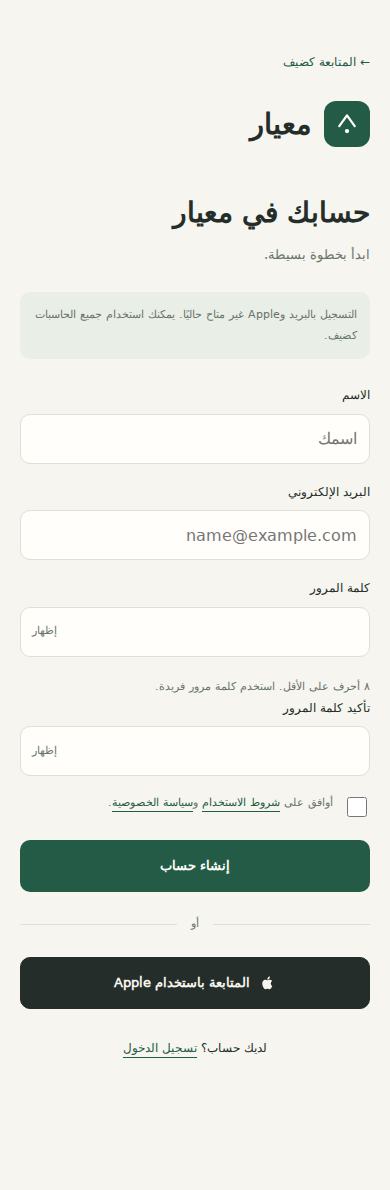
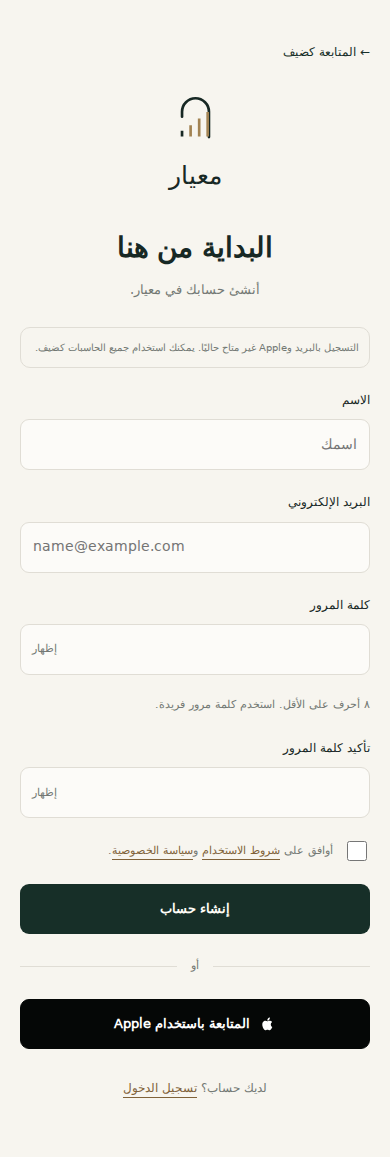
Apply approved premium ivory ink bronze design with persistent dark mode

diff --git a/style.css b/style.css
@@ -10,3 +10,9 @@
 body{font-size:15px;-webkit-text-size-adjust:100%}.shell{max-width:820px;padding-top:max(12px,env(safe-area-inset-top));padding-bottom:calc(108px + env(safe-area-inset-bottom))}h1,h2,h3{letter-spacing:0}h1{font-size:30px;font-weight:600}.topbar{padding:14px 0 18px}.brand{font-size:24px;gap:9px}.brand img{width:36px;height:36px;border-radius:9px}.brand small{font-size:10px}.pill{font-size:10px;border:0;background:var(--soft);padding:6px 10px}.home-heading{padding:28px 0 20px}.home-heading h1{font-size:27px;margin:8px 0}.home-heading p{margin:5px 0;font-size:13px}.eyebrow{letter-spacing:0;font-size:11px}.quick-calc{display:flex;align-items:center;gap:14px;padding:22px 18px;background:var(--accent);color:var(--on-accent);border-radius:16px}.quick-calc .eyebrow,.quick-calc p{color:inherit;opacity:.8}.quick-calc h2{font-size:21px;margin:5px 0}.quick-calc p{font-size:11px;margin:0}.quick-icon{font-size:32px}.arrow{margin-inline-start:auto;font-size:24px}.section-title{margin:25px 0 12px}.section-title h2{font-size:17px;margin:0}.calculator-grid{grid-template-columns:repeat(2,minmax(0,1fr));gap:0;background:var(--panel);border:1px solid var(--line);border-radius:16px;overflow:hidden}.tile,.tile:first-child{min-height:130px;border:0;border-radius:0;border-bottom:1px solid var(--line);background:transparent;padding:17px;transform:none}.tile:nth-child(odd){border-inline-end:1px solid var(--line)}.tile:last-child{border-bottom:0}.tile:hover{background:var(--soft);transform:none}.tile-icon{width:30px;height:30px;border-radius:0;background:transparent;font-size:24px}.tile h3{font-size:14px;margin:8px 0 4px}.tile p{font-size:10px;line-height:1.7}.bottom-nav{background:var(--panel);backdrop-filter:none;gap:0;justify-content:space-around;padding-top:10px}.bottom-nav a{font-size:10px;gap:5px;flex:1;min-width:0}.bottom-nav a[aria-current]{font-weight:700}.bottom-nav a[aria-current]>span{background:var(--soft);border-radius:8px}.bottom-nav a>span{padding:3px 17px}.icon{width:22px;height:22px;display:block;fill:none;stroke:currentColor;stroke-width:1.6;stroke-linecap:round;stroke-linejoin:round}.panel{border-radius:15px;background:var(--panel);padding:20px}.calc-heading{margin:25px 0 22px}.calc-heading h1{font-size:28px;margin:7px 0}.calc-heading p{font-size:12px;margin:0}.back{padding-top:20px;font-size:12px}.field>span{color:var(--text);font-size:12px}.field{margin-bottom:12px}input,select{background:var(--field);border-color:var(--line);color:var(--text);border-radius:10px;min-height:50px}input:focus,select:focus{border-color:var(--accent)}.button{border-radius:10px;font-size:13px;display:inline-flex;align-items:center;justify-content:center;gap:8px;text-align:center}.primary{background:var(--accent);color:var(--on-accent)}.secondary,.keypad button{background:var(--soft);color:var(--text);border-color:var(--line)}.result{background:var(--soft);border-color:var(--line)}.result h2,.history-item strong,.prose a,.grade-map summary{color:var(--accent)}.keypad{gap:9px}.keypad button{font-family:inherit;background:var(--field);font-size:24px;border:1px solid var(--line);border-radius:13px;min-height:60px}.keypad button.operator{background:var(--soft);color:var(--accent)}.expression{font-family:inherit;background:transparent;border:0;border-bottom:1px solid var(--line);border-radius:0;font-size:30px;min-height:85px}.note{font-size:11px;color:var(--muted)}.course button{background:var(--soft);color:var(--text)}.error{background:#f7e9e6;color:#8c3327}.toast{background:var(--text);color:var(--bg)}dialog{background:var(--panel);color:var(--text)}.avatar{width:46px;height:46px;background:var(--soft);color:var(--accent);display:grid;place-items:center;border-radius:50%;font-size:22px;flex-shrink:0}.account-card{display:flex;align-items:center;gap:14px;margin-bottom:18px}.account-card h2{font-size:15px;margin:0}.account-card p{font-size:11px;margin:6px 0}.settings-list>a{display:flex;justify-content:space-between;padding:18px 0;border-top:1px solid var(--line);font-size:13px}.settings-list>a:last-child{padding-bottom:0}.auth-page .topbar,.auth-page .bottom-nav{display:none}.auth-wrap{max-width:420px;margin:auto;padding-top:20px}.auth-brand{font-size:29px;font-weight:700;display:flex;align-items:center;gap:12px;margin:25px 0 45px}.auth-brand img{width:46px}.auth-wrap h1{font-size:28px;margin:12px 0}.auth-wrap>p{font-size:13px;margin:0 0 26px}.auth-wrap .button{width:100%;margin:5px 0;min-height:52px}.auth-wrap .field{margin-bottom:18px}.auth-footer{text-align:center;font-size:12px;margin:24px 0}.text-link{color:var(--accent);text-decoration:underline;text-underline-offset:5px}.auth-notice{font-size:11px!important;background:var(--soft);padding:13px;border-radius:10px;line-height:1.9}.password-wrap{position:relative}.password-wrap input{padding-inline-end:68px;direction:ltr;text-align:left}.password-toggle{position:absolute;inset-inline-end:6px;top:6px;min-height:38px;background:transparent;color:var(--muted);border:0;font:inherit;font-size:11px}.check{display:flex;gap:10px;align-items:flex-start;font-size:11px;color:var(--muted);margin:15px 0}.check input{width:20px;min-height:20px;flex-shrink:0;accent-color:var(--accent)}.divider{display:flex;align-items:center;gap:14px;font-size:11px;color:var(--muted);margin:18px 0}.divider:before,.divider:after{content:'';height:1px;background:var(--line);flex:1}.apple-button{background:var(--text);color:var(--bg);border-color:var(--text)}.apple-button svg{width:18px;height:22px;fill:currentColor}.report-row{display:flex;align-items:center;gap:12px;padding:17px 0;border-bottom:1px solid var(--line);font-size:13px}.report-row input{width:20px;min-height:20px;accent-color:var(--accent)}.report-row small{display:block;color:var(--muted);font-size:10px}.report-row strong{margin-inline-start:auto;font-size:14px;max-width:40%;overflow-wrap:anywhere}#report-records{margin:20px 0}.report-paper{margin:20px 0;padding-bottom:15px;border-bottom:1px solid var(--line)}.report-paper h3{font-size:15px}.report-paper p{font-size:12px;white-space:pre-line}.history-tools{display:grid;grid-template-columns:1fr 1fr;gap:10px;margin-bottom:18px}.history-item{box-shadow:none}.recent-row{display:flex;justify-content:space-between;padding:15px 0;border-bottom:1px solid var(--line);font-size:12px;gap:14px}.recent-row strong{color:var(--accent)}.footnote{line-height:1.9}.brand span{white-space:nowrap}@media(min-width:651px){.calculator-grid{grid-template-columns:repeat(3,minmax(0,1fr))}.tile{border-inline-end:1px solid var(--line)}.shell{padding-inline:32px}.bottom-nav{max-width:820px;margin:auto}}@media(max-width:370px){.shell{padding-inline:16px}.pill{font-size:9px}.quick-calc{gap:10px;padding:18px 14px}.quick-calc h2{font-size:18px}.quick-calc p{font-size:10px}.keypad button{min-height:54px}.auth-wrap h1{font-size:25px}} 
 
 .keypad button{display:grid;place-items:center}.general-page .calc-heading{margin:13px 0}.general-page .calc-heading h1{font-size:23px}.general-page .calc-heading .eyebrow{display:none}.general-page .keypad button{min-height:49px}.general-page .expression{min-height:66px}.general-page .back{padding-top:12px}.general-page .form-actions{margin-top:12px}.general-page .grade-map{margin-top:8px}.general-page #fields{padding:16px}.auth-brand img{border-radius:12px}
+
+/* Approved premium direction — porcelain, ink, bronze. */
+:root{--bg:#f7f5ef;--panel:#fcfbf8;--line:#e0ddd5;--text:#172824;--muted:#737974;--accent:#172f28;--soft:#efede6;--field:#fcfbf8;--on-accent:#fffdf7;--bronze:#806239;--bronze-fill:#a28353;--feature:#172f28;--feature-text:#fffdf7;--logo-bg:#f7f5ef;--danger-bg:#f8e9e4;--danger-text:#8b3426}
+:root[data-theme=dark]{--bg:#111916;--panel:#19231f;--line:#354039;--text:#efeee6;--muted:#b0b9b0;--accent:#c6d8cb;--soft:#25312b;--field:#19231f;--on-accent:#14251c;--bronze:#d2b27e;--bronze-fill:#bea16f;--feature:#24372d;--feature-text:#f5f2e9;--danger-bg:#412a24;--danger-text:#f6c4b6}
+@media(prefers-color-scheme:dark){:root:not([data-theme=light]){--bg:#111916;--panel:#19231f;--line:#354039;--text:#efeee6;--muted:#b0b9b0;--accent:#c6d8cb;--soft:#25312b;--field:#19231f;--on-accent:#14251c;--bronze:#d2b27e;--bronze-fill:#bea16f;--feature:#24372d;--feature-text:#f5f2e9;--danger-bg:#412a24;--danger-text:#f6c4b6}}
+.topbar{border-bottom:0;padding:12px 0;min-height:60px}.brand{gap:5px;font-weight:500;font-size:25px}.brand img{width:43px;height:43px;border-radius:9px}.brand small{display:none}.profile-link{width:37px;height:37px;display:grid;place-items:center;border:1px solid var(--line);border-radius:50%;color:var(--accent);background:var(--panel)}.home-heading{padding:18px 0 23px}.home-heading h1{font-size:25px;letter-spacing:-.6px}.home-heading p{font-size:12px;margin-top:5px}.quick-calc{display:block;padding:20px 20px 14px;background:var(--feature);color:var(--feature-text);border-radius:14px;box-shadow:0 7px 15px #15271c0d}.quick-top{display:flex;align-items:center;justify-content:space-between;font-size:14px}.quick-top>span:first-child{display:flex;align-items:center;gap:9px}.quick-top .icon{color:#c2a574;width:20px;height:20px}.round-arrow{display:grid;place-items:center;width:30px;height:30px;border-radius:50%;background:#a28353;color:#fff;font-size:22px}.quick-expression{margin-top:15px;text-align:right;font-size:21px;letter-spacing:1px}.quick-answer{border-top:1px solid #a2835370;margin-top:9px;padding-top:4px;font-family:Georgia,serif;font-size:53px;line-height:1.2;color:#d0b07a;text-align:right}.quick-calc small{font-size:9px;color:#e3e7df;opacity:.8}.calculator-grid{gap:10px;background:transparent;border:0;overflow:visible}.tile,.tile:first-child,.tile:nth-child(odd),.tile:last-child{border:1px solid var(--line);border-radius:12px;padding:17px 8px 13px;min-height:107px;display:flex;flex-direction:column;align-items:center;justify-content:center;background:var(--panel);text-align:center}.tile-icon{width:30px;height:30px;display:grid;place-items:center;color:var(--text)}.tile-icon .icon{width:28px;height:28px;stroke-width:1.5}.tile:nth-child(even) .tile-icon{color:var(--bronze)}.tile h3{font-weight:500;font-size:12px;margin:10px 0 0}.tile p{display:none}.section-title{margin:23px 0 13px}.section-title h2{font-weight:500;font-size:16px}.section-title>span{display:none}.bottom-nav{border-top:1px solid var(--line);background:var(--bg)}.bottom-nav a{position:relative;font-size:9px;gap:4px}.bottom-nav a>span{padding:3px 12px}.bottom-nav a[aria-current]{color:var(--bronze)}.bottom-nav a[aria-current]>span{background:none}.bottom-nav a[aria-current]:before{content:'';position:absolute;top:-10px;left:calc(50% - 12px);width:24px;height:3px;border-radius:2px;background:var(--bronze-fill)}.bottom-nav .icon{width:23px;height:23px}.auth-wrap{padding-top:10px}.auth-brand{flex-direction:column;gap:0;justify-content:center;margin:25px 0 32px;font-size:25px;font-weight:500}.auth-brand img{width:65px;height:65px;border-radius:13px}.auth-wrap h1{text-align:center;font-size:28px;letter-spacing:-.6px}.auth-wrap>p:not(.auth-notice):not(.error){text-align:center}.auth-wrap .auth-notice{margin:22px 0;font-size:10px!important;border:1px solid var(--line);background:transparent;color:var(--muted);padding:10px}.auth-wrap .field{margin:22px 0 0}.auth-wrap input{min-height:51px;font-size:14px;border-radius:9px}.auth-wrap .field>span{font-size:12px;font-weight:400;margin-bottom:9px}.auth-wrap input[type=email]{text-align:left}.auth-wrap .primary{background:var(--feature);color:var(--feature-text)}.auth-wrap form>.text-link{display:block;text-align:left;margin:16px 0;font-size:11px;color:var(--bronze)}.auth-wrap .button{min-height:50px;border-radius:9px}.auth-wrap .apple-button{background:#050706;color:#fff;border-color:#050706}.auth-wrap .text-link{color:var(--bronze)}.auth-wrap .check input{min-height:20px;accent-color:var(--bronze-fill)}.auth-wrap .check{margin:20px 0 15px;align-items:center}.auth-wrap .auth-footer{color:var(--muted)}.auth-page .shell{padding-bottom:max(35px,env(safe-area-inset-bottom))}.auth-wrap .password-toggle{top:7px;min-height:37px}.error{background:var(--danger-bg);color:var(--danger-text)}.general-page .topbar{display:none}.general-page .back{display:block;text-align:right;padding:6px 0;font-size:11px}.general-page .calc-heading{margin:10px 0 14px}.general-page .calc-heading h1{font-size:20px;font-weight:500}.general-page .calc-heading p{font-size:10px}.general-page #fields{padding:0;background:transparent;border:0}.general-page .expression{min-height:60px;font-size:26px;padding:12px 15px;text-align:right;background:var(--panel);border:1px solid var(--line);border-bottom:0;border-radius:13px 13px 0 0}.general-page #fields>.field{margin:0}.general-page #fields>.field>span{display:none}.live-display{padding:3px 16px 14px;background:var(--panel);border:1px solid var(--line);border-top:0;border-radius:0 0 13px 13px}.live-display>span{font-size:11px;color:var(--muted);display:block}.live-display output{display:block;text-align:right;font:64px/1.15 Georgia,serif;min-height:74px;overflow-wrap:anywhere;color:var(--text)}.general-page .keypad{gap:8px;margin-top:15px}.general-page .keypad button{min-height:55px;border-radius:11px;background:var(--panel);font-size:23px;font-family:system-ui,sans-serif;border:1px solid var(--line);font-weight:400}.general-page .keypad button.operator{background:var(--feature);color:var(--feature-text);border-color:var(--feature)}.general-page .keypad button.equals{background:var(--bronze-fill);color:#111b17;border-color:var(--bronze-fill);font-size:28px}.general-page .form-actions{margin:10px 0}.general-page .form-actions .primary{display:none}.general-page .form-actions .secondary{background:transparent;color:var(--muted);border:0;padding:5px;font-size:11px;min-height:32px}.general-page .grade-map{margin-top:7px}.general-page .grade-map summary{font-size:12px;color:var(--bronze)}.general-page .result{margin-top:8px}.general-page .result h2{font-family:Georgia,serif}.science .button{font-family:system-ui,sans-serif}.profile-link:focus-visible{outline:2px solid var(--bronze)}.field input:focus,.field select:focus{border-color:var(--bronze)}@media(min-width:651px){.calculator-grid{grid-template-columns:repeat(3,minmax(0,1fr))}.general-page{max-width:540px;margin:auto}.general-page .bottom-nav{max-width:540px}.home-heading h1{font-size:30px}}@media(max-height:750px){.general-page .keypad button{min-height:47px}.general-page .live-display output{font-size:54px;min-height:62px}.general-page .calc-heading{margin:7px 0}.general-page .calc-heading p{display:none}}

diff --git a/index.html b/index.html
@@ -1,9 +1,9 @@
-<!doctype html><html lang="ar" dir="rtl"><head><meta charset="utf-8"><meta name="viewport" content="width=device-width,initial-scale=1,viewport-fit=cover"><meta name="theme-color" content="#f6f5ef"><meta name="description" content="معيار: حاسبات عربية وتقارير PDF وسجل محلي."><meta name="apple-mobile-web-app-capable" content="yes"><title>معيار — حساباتك بوضوح</title><link rel="manifest" href="manifest.webmanifest"><link rel="icon" href="assets/icon.svg"><link rel="apple-touch-icon" href="assets/icon-192.png"><link rel="stylesheet" href="style.css"><script type="module" src="app.js"></script></head>
-<body><div class="shell"><header class="topbar"><a class="brand" href="#home" aria-label="معيار، الرئيسية"><img src="assets/icon.svg" width="46" height="46" alt=""><span>معيار<small>حساباتك بوضوح</small></span></a><span class="pill">محفوظ على جهازك</span></header><main>
-<section id="home"><div class="home-heading"><span class="eyebrow">حساباتك اليومية</span><h1>كل حساب، في مكانه.</h1><p>اختر أداتك وابدأ مباشرة.</p></div><a class="quick-calc" href="#general"><span class="quick-icon" aria-hidden="true"><svg class="icon" viewBox="0 0 24 24"><path d="M12 4v16M4 12h16"/></svg></span><div><span class="eyebrow">جاهزة لحسابك القادم</span><h2>الحاسبة العامة</h2><p>من العمليات البسيطة إلى الدوال العلمية</p></div><span class="arrow">←</span></a><div class="section-title"><h2>الأدوات</h2><span>حسابات متخصصة</span></div><div id="calculator-grid" class="calculator-grid"></div><div id="recent-home"></div><p class="footnote">حساباتك محفوظة على جهازك. تعمل الأدوات دون اتصال داخل تطبيق iOS.</p></section>
+<!doctype html><html lang="ar" dir="rtl"><head><meta charset="utf-8"><meta name="viewport" content="width=device-width,initial-scale=1,viewport-fit=cover"><meta name="theme-color" content="#f7f5ef"><meta name="description" content="معيار: حاسبات عربية وتقارير PDF وسجل محلي."><meta name="apple-mobile-web-app-capable" content="yes"><title>معيار — حساباتك بوضوح</title><link rel="manifest" href="manifest.webmanifest"><link rel="icon" href="assets/icon.svg"><link rel="apple-touch-icon" href="assets/icon-192.png"><link rel="stylesheet" href="style.css"><script type="module" src="app.js"></script></head>
+<body><div class="shell"><header class="topbar"><a class="brand" href="#home" aria-label="معيار، الرئيسية"><img src="assets/icon.svg" width="46" height="46" alt=""><span>معيار<small>حساباتك بوضوح</small></span></a><a class="profile-link" href="#settings" aria-label="حسابي"><span data-icon="user"></span></a></header><main>
+<section id="home"><div class="home-heading"><h1>مساحة لحساباتك</h1><p>ببساطة، وبدقة.</p></div><a class="quick-calc" href="#general"><div class="quick-top"><span><svg class="icon" viewBox="0 0 24 24"><rect x="5" y="2" width="14" height="20" rx="2"/><path d="M8 6h8M8 11h1m3 0h1m3 0h0M8 15h1m3 0h1m3 0h0M8 19h1m3 0h1m3 0h0"/></svg>الحاسبة العامة</span><span class="round-arrow">←</span></div><div class="quick-expression" dir="ltr">128 × 4</div><div class="quick-answer" dir="ltr">512</div><small>مثال توضيحي</small></a><div class="section-title"><h2>أدواتك</h2><span>حسابات متخصصة</span></div><div id="calculator-grid" class="calculator-grid"></div><div id="recent-home"></div><p class="footnote">حساباتك محفوظة على جهازك. تعمل الأدوات دون اتصال داخل تطبيق iOS.</p></section>
 <section id="calculator" hidden><a class="back" href="#home">← كل الحاسبات</a><div class="calc-heading"><span class="eyebrow" id="calc-kicker"></span><h1 id="calc-title" tabindex="-1"></h1><p id="calc-description"></p></div><form id="calc-form" novalidate><div id="fields" class="panel"></div><p id="error" class="error" role="alert" hidden></p><div class="form-actions"><button class="button primary" type="submit">احسب النتيجة <span>↗</span></button><button id="reset" class="button secondary" type="button">إعادة تعيين</button></div></form><section id="result" class="result panel" hidden aria-live="polite"><span class="eyebrow">نتيجتك</span><h2 id="result-value"></h2><p id="result-detail"></p><div class="result-actions"><button id="save" class="button secondary" type="button">حفظ</button><button id="share" class="button secondary" type="button">مشاركة</button><button id="pdf" class="button secondary" type="button">تقرير PDF</button></div></section></section>
 <section id="history" hidden><div class="calc-heading"><span class="eyebrow">للرجوع إليها في أي وقت</span><h1>سجل حساباتك</h1><p>حتى ١٠٠ نتيجة محفوظة على هذا الجهاز.</p></div><div class="result-actions"><button id="export-history" class="button secondary" hidden>تقرير السجل PDF</button><button id="export-csv" class="button secondary" hidden>تصدير CSV</button></div><div id="history-list"></div><button id="clear-history" class="button secondary" hidden>مسح السجل بالكامل</button></section>
-<section id="settings" hidden><div class="calc-heading"><span class="eyebrow">مساحتك الشخصية</span><h1>حسابي</h1></div><div class="account-card panel"><span class="avatar">م</span><div><h2>تستخدم معيار كضيف</h2><p>جميع حاسباتك وسجلك متاحة على هذا الجهاز.</p></div></div><div class="result-actions"><a href="#login" class="button primary">تسجيل الدخول</a><a href="#signup" class="button secondary">إنشاء حساب</a></div><div class="panel settings-list"><label class="field"><span>المظهر</span><select id="theme"><option value="system">حسب الجهاز</option><option value="light">فاتح</option><option value="dark">داكن</option></select></label><a href="#history">إدارة سجل الحسابات <span>←</span></a><a href="privacy.html">سياسة الخصوصية <span>←</span></a><a href="terms.html">شروط الاستخدام <span>←</span></a><a href="mailto:abdalulazizaali@gmail.com">تواصل معنا <span>←</span></a></div><p class="footnote">معيار · 0.3 — تطوير عبدالعزيز العنزي</p></section>
+<section id="settings" hidden><div class="calc-heading"><span class="eyebrow">مساحتك الشخصية</span><h1>حسابي</h1></div><div class="account-card panel"><span class="avatar">م</span><div><h2>تستخدم معيار كضيف</h2><p>جميع حاسباتك وسجلك متاحة على هذا الجهاز.</p></div></div><div class="result-actions"><a href="#login" class="button primary">تسجيل الدخول</a><a href="#signup" class="button secondary">إنشاء حساب</a></div><div class="panel settings-list"><label class="field"><span>المظهر</span><select id="theme"><option value="system">حسب الجهاز</option><option value="light">فاتح</option><option value="dark">داكن</option></select></label><a href="#history">إدارة سجل الحسابات <span>←</span></a><a href="privacy.html">سياسة الخصوصية <span>←</span></a><a href="terms.html">شروط الاستخدام <span>←</span></a><a href="mailto:abdalulazizaali@gmail.com">تواصل معنا <span>←</span></a></div><p class="footnote">معيار · 0.3.1 — تطوير عبدالعزيز العنزي</p></section>
 <section id="reports" hidden><div class="calc-heading"><span class="eyebrow">من الأرقام إلى مستند واضح</span><h1>التقارير</h1><p>اختر حسابات محفوظة لإنشاء تقريرك.</p></div><label class="field"><span>عنوان التقرير (اختياري)</span><input id="report-title" maxlength="70" placeholder="تقرير حساباتي"></label><div id="report-records"></div><div class="result-actions"><button id="preview-report" class="button primary">معاينة التقرير</button><button id="download-report" class="button secondary">حفظ / مشاركة PDF</button></div><div id="report-preview" class="panel" hidden></div><p class="footnote">التقارير للاستخدام الشخصي وليست مستندات معتمدة.</p></section>
 <section id="auth" hidden></section>
 </main><nav class="bottom-nav" aria-label="التنقل الرئيسي"><a href="#home" data-tab="home"><span data-icon="grid"></span>الحاسبات</a><a href="#history" data-tab="history"><span data-icon="clock"></span>السجل</a><a href="#reports" data-tab="reports"><span data-icon="file"></span>التقارير</a><a href="#settings" data-tab="settings"><span data-icon="user"></span>حسابي</a></nav></div><div id="toast" class="toast" role="status" hidden></div><dialog id="confirm"><h2>مسح السجل؟</h2><p>سيُحذف السجل من هذا الجهاز ولا يمكن التراجع.</p><form method="dialog"><button class="button secondary" value="cancel">إلغاء</button><button class="button primary" value="delete">مسح</button></form></dialog></body></html>

diff --git a/sw.js b/sw.js
@@ -1,4 +1,4 @@
-const CACHE='meyar-v030';
+const CACHE='meyar-v031';
 const CORE=['./','index.html','app.js','style.css','privacy.html','terms.html','manifest.webmanifest','assets/icon.svg','assets/icon-192.png','assets/icon-512.png','assets/report-font.ttf'];
 self.addEventListener('install',e=>e.waitUntil(caches.open(CACHE).then(c=>c.addAll(CORE))));
 self.addEventListener('activate',e=>e.waitUntil(caches.keys().then(keys=>Promise.all(keys.filter(k=>k.startsWith('meyar-')&&k!==CACHE).map(k=>caches.delete(k)))).then(()=>self.clients.claim())));

diff --git a/docs/DESIGN.md b/docs/DESIGN.md
@@ -14,3 +14,9 @@ Reports support selection, optional title, HTML content preview and PDF export/n
 ![general](images/general-v3.png)
 ![login](images/login-v3.png)
 ![signup](images/signup-v3.png)
+## Approved premium direction — 0.3.1
+
+Porcelain #f7f5ef, ink #172824 and bronze #a28353. Arch/tick monogram. Calculator has an integrated result display and equals key. Dark mode uses #111916 with warm light text and brighter bronze. Appearance supports explicit light/dark or automatic system preference; selection is persisted locally.
+
+![Dark home](images/home-dark.png)
+![Dark calculator](images/general-dark.png)

diff --git a/README.md b/README.md
@@ -1,4 +1,4 @@
-> **UI update 0.3:** Ivory/forest theme, dark mode, four tabs, account screen designs and report selection. Email/Apple authentication is **not connected**; continue as guest. See [design notes](docs/DESIGN.md).
+> **UI update 0.3.1:** Approved ivory/ink/bronze theme, dark mode, four tabs, account screen designs and report selection. Email/Apple authentication is **not connected**; continue as guest. See [design notes](docs/DESIGN.md).
 
 <div align="center">
 
